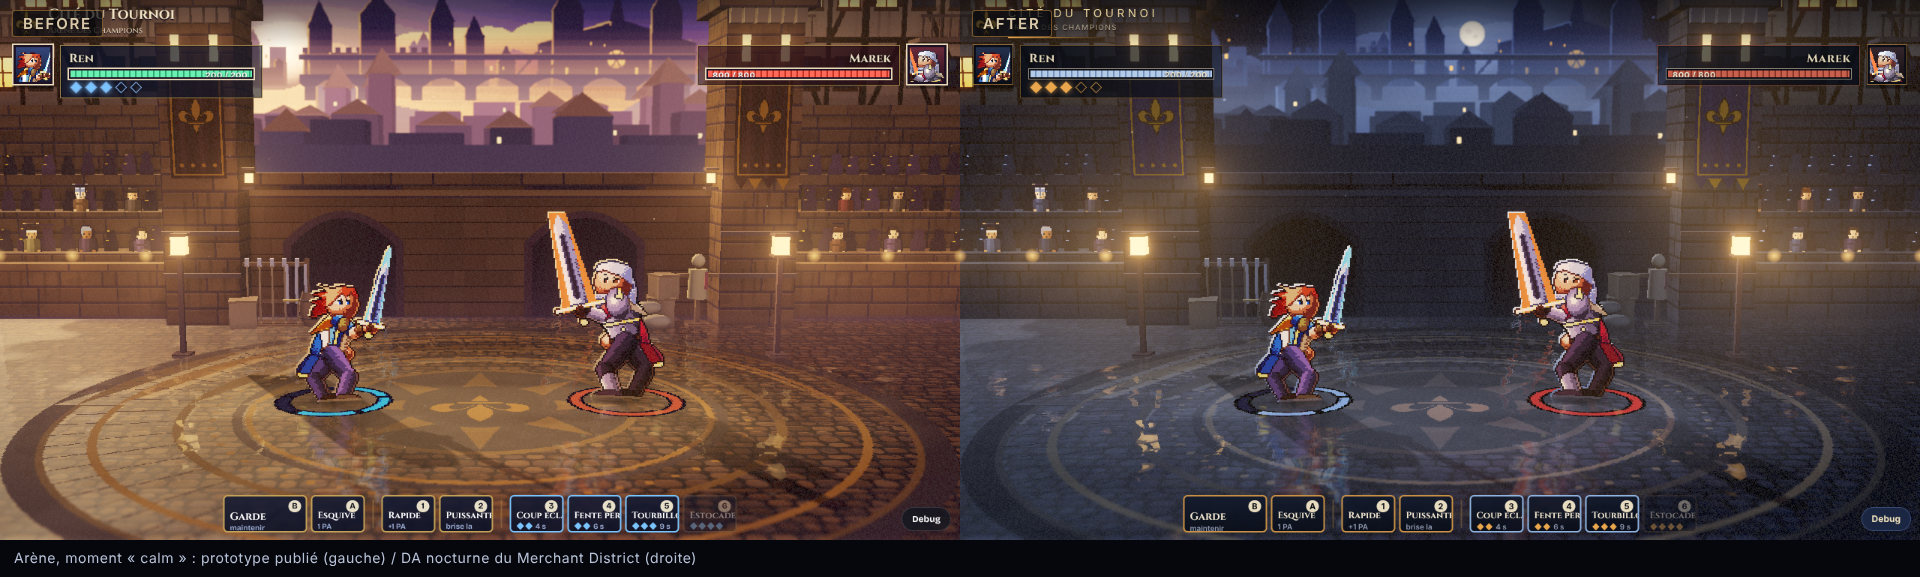
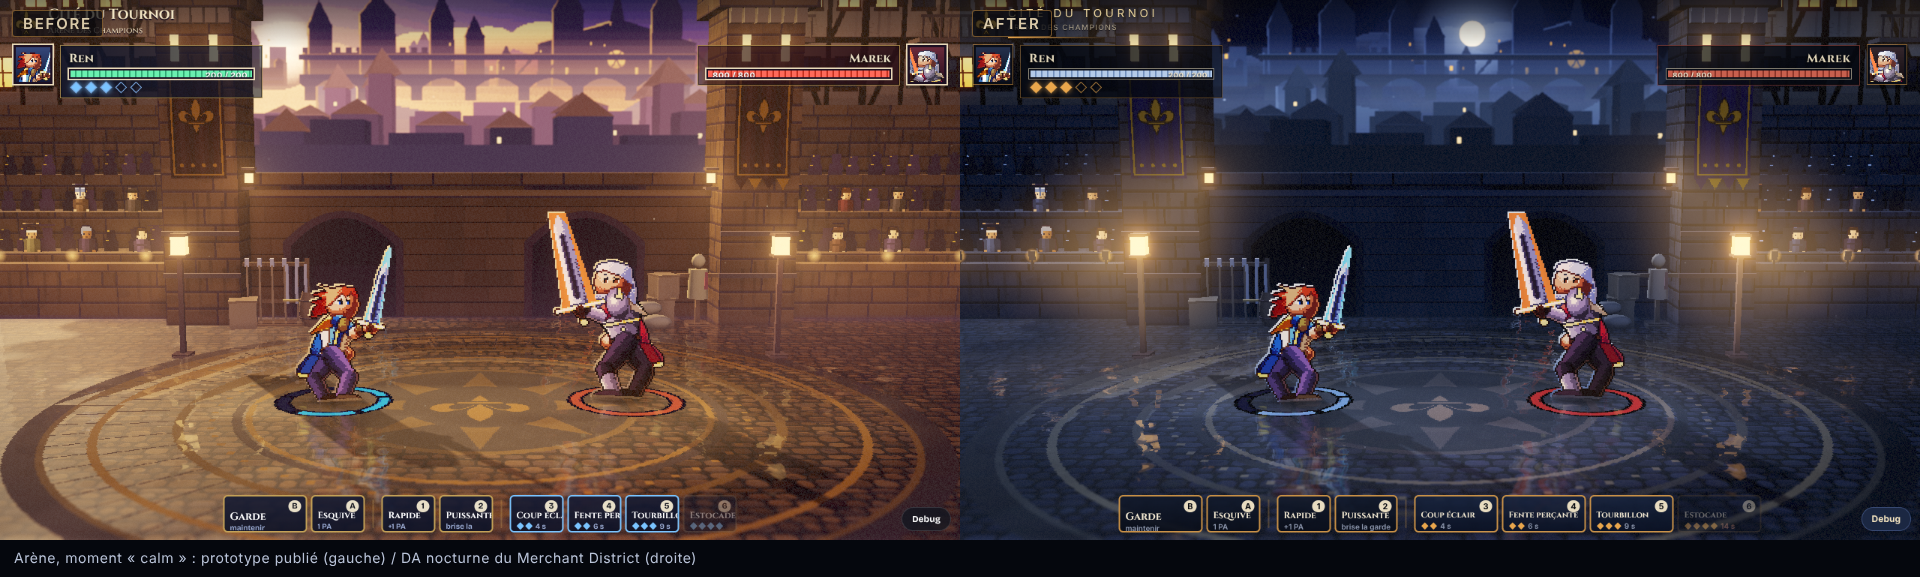
Pass A2: blind critiques of the arena's night look; warmth bounded to its sources, HDR moon, crimson telegraph, publish tool
Two fresh blind critiques (original vs A1: 7 / 10 vs 3; A1 vs this revision: 7 vs 5). The lanterns' in-scatter had a 1/d^2 tail that,
summed over 14 lights, veiled the whole frame in amber: bounded to each source (the unlit stone is now cool blue, as the district's).
Telegraph crimson-rose with ivory chevrons, 2.29:1. A night conversion of the painted / full-3D comparison modes was tried and withdrawn.
A third blind critique of the last revision is pending before the merge.

Claude-Session: https://claude.ai/code/session_01EALDkqJdpRg4dShjiuiMN8

diff --git a/arena/arena.html b/arena/arena.html
@@ -3,7 +3,7 @@
 <title>Arène des Champions</title>
 <link rel="stylesheet" href="https://fonts.googleapis.com/css2?family=Press+Start+2P&family=Cinzel:wght@500;700&display=swap">
 <style>
-:root{--bg:#05070d;--panel:rgba(8,12,22,.86);--ink:#e8dcc0;--muted:#8e98ae;--line:rgba(233,166,76,.24);--gold:#e9a64c;--red:#c65a4a;--blue:#8fb4e0;--green:#cfdcf0;box-sizing:border-box;padding-top:env(safe-area-inset-top,0px);padding-bottom:env(safe-area-inset-bottom,0px)}
+:root{color-scheme:dark;--bg:#05070d;--panel:rgba(8,12,22,.86);--ink:#e8dcc0;--muted:#8e98ae;--line:rgba(233,166,76,.24);--gold:#e9a64c;--red:#c65a4a;--blue:#8fb4e0;--green:#cfdcf0;box-sizing:border-box;padding-top:env(safe-area-inset-top,0px);padding-bottom:env(safe-area-inset-bottom,0px)}
 *,*::before,*::after{box-sizing:inherit}html,body{height:100%;margin:0;background:var(--bg);color:var(--ink);font:14px/1.4 'Segoe UI',system-ui,sans-serif;overflow:hidden}
 #stage{position:fixed;inset:0;top:env(safe-area-inset-top,0px);bottom:env(safe-area-inset-bottom,0px)}#gl{display:block;width:100%;height:100%}
 #boot{position:absolute;inset:0;display:grid;place-items:center;color:#d9c9a8;font-size:13px;letter-spacing:.14em;text-transform:uppercase;background:#05070d;z-index:5}
@@ -50,10 +50,10 @@ body[data-mode="hd2d"] .hp .bar i{background:repeating-linear-gradient(90deg,#b4
 #title,#alert,#ctx,#tl{display:none}
 body[data-mode="hd2d"] #title{display:flex;position:absolute;left:16px;top:10px;gap:10px;align-items:center;font-family:'Segoe UI',system-ui,sans-serif;color:#f1d9a0;text-shadow:0 1px 0 #05070d,0 0 12px rgba(0,0,0,.7)}
 #title svg{width:38px;height:38px}#title b{display:block;font-size:23px;line-height:1.05}#title span{font-size:14px;opacity:.88}
-body[data-mode="hd2d"] .port{top:84px}body[data-mode="hd2d"] .hp{top:82px;width:min(32vw,330px);padding:8px 12px 9px;background:linear-gradient(90deg,rgba(8,12,22,.88),rgba(8,12,22,.55));border:1px solid rgba(233,166,76,.38);box-shadow:inset 0 0 0 1px rgba(0,0,0,.4)}
-body[data-mode="hd2d"] .hp.r{background:linear-gradient(270deg,rgba(8,12,22,.88),rgba(8,12,22,.55));border-color:rgba(208,113,78,.5);text-align:right}
+body[data-mode="hd2d"] .port{top:84px}body[data-mode="hd2d"] .hp{top:82px;width:min(32vw,330px);padding:8px 12px 9px;background:linear-gradient(90deg,rgba(5,8,16,.92),rgba(5,8,16,.62));border:1px solid rgba(233,166,76,.38);box-shadow:inset 0 0 0 1px rgba(0,0,0,.4)}
+body[data-mode="hd2d"] .hp.r{background:linear-gradient(270deg,rgba(5,8,16,.92),rgba(5,8,16,.62));border-color:rgba(198,90,74,.5);text-align:right}
 body[data-mode="hd2d"] .hp .nm{font-family:'Cinzel',serif;font-size:16px;text-transform:none;letter-spacing:.04em;color:#efe3c4}body[data-mode="hd2d"] .hp b{display:none}
-body[data-mode="hd2d"] .hp .bar.hpb{position:relative;height:15px;margin-top:5px}body[data-mode="hd2d"] .hp .bar em{position:absolute;right:6px;top:-1px;font:700 11px/15px 'Segoe UI',system-ui,sans-serif;font-style:normal;color:#f3e9d2;text-shadow:0 1px 2px #000}body[data-mode="hd2d"] .hp.r .bar em{right:auto;left:6px}
+body[data-mode="hd2d"] .hp .bar.hpb{position:relative;height:15px;margin-top:5px}body[data-mode="hd2d"] .hp .bar em{position:absolute;right:6px;top:0;font:700 10px/13px 'Segoe UI',system-ui,sans-serif;font-style:normal;color:#f3e9d2;text-shadow:0 1px 2px #000}body[data-mode="hd2d"] .hp.r .bar em{right:auto;left:6px}
 body[data-mode="hd2d"] .hp.r .bar.hpb i{background:repeating-linear-gradient(90deg,#c8604e 0 6px,#8a3428 6px 8px)}
 .hp .bar.gg,.hp .pips,.hp .nx{display:none}body[data-mode="hd2d"] .hp .bar.gg{display:block;height:8px;margin-top:5px}body[data-mode="hd2d"] .hp .bar.gg i{background:repeating-linear-gradient(90deg,#7ac4ff 0 4px,#3a82e0 4px 6px)}body[data-mode="hd2d"] .hp.r .bar.gg i{background:repeating-linear-gradient(90deg,#ffc06a 0 4px,#d9822a 4px 6px)}
 body[data-mode="hd2d"] .hp .pips{display:flex;gap:9px;margin-top:6px;padding-left:4px}body[data-mode="hd2d"] .hp.r .pips{justify-content:flex-end;padding-right:4px}.pips u{width:11px;height:11px;transform:rotate(45deg);border:1.5px solid rgba(233,166,76,.65);background:transparent;display:block}.pips u.on{background:#e9a64c;box-shadow:0 0 8px rgba(233,166,76,.85)}.hp.r .pips u{border-color:#e0a070}.hp.r .pips u.on{background:#ffb060;box-shadow:0 0 8px #ffb060}
@@ -77,7 +77,7 @@ body[data-mode="hd2d"] #tl{display:block;position:absolute;left:50%;bottom:6px;w
 .ab{position:relative;width:98px;height:62px;padding:7px 8px 6px;text-align:left;font:inherit;color:#e8dcc0;background:linear-gradient(#121a2ce6,#090d18e6);border:2px solid rgba(233,166,76,.28);border-radius:6px;cursor:pointer;overflow:hidden;opacity:.5;transition:opacity .1s,border-color .1s;touch-action:manipulation;-webkit-tap-highlight-color:transparent;user-select:none}
 .ab kbd{position:absolute;top:5px;right:6px;min-width:17px;padding:0 4px;font:700 11px/16px 'Segoe UI',system-ui,sans-serif;text-align:center;color:#05070d;background:#e8dcc0;border-radius:9px}
 .ab b{display:block;font:600 13px/1.1 'Cinzel',Georgia,serif;margin-top:15px;white-space:nowrap;color:#f3e9d2}.ab em{display:block;font:600 10.5px/1.2 'Segoe UI',system-ui,sans-serif;font-style:normal;color:#8e98ae;margin-top:3px}
-.ab.on{opacity:1;border-color:rgba(233,166,76,.85)}.ab.tech.on{border-color:#8fb4e0}.ab.noap{opacity:.4}.ab.noap em{color:#d08a6a}.ab.guard{margin-left:10px}
+.ab.on{opacity:1;border-color:rgba(233,166,76,.85)}.ab.tech.on{border-color:rgba(233,166,76,.85);background:linear-gradient(#18243ee6,#0b1224e6)}.ab.noap{opacity:.4}.ab.noap em{color:#d08a6a}.ab.guard{margin-left:10px}
 .ab .cd{position:absolute;left:0;right:0;bottom:0;height:0;background:rgba(5,8,18,.78)}.ab s{position:absolute;inset:0;display:none;place-items:center;font:700 20px 'Segoe UI',system-ui,sans-serif;text-decoration:none;color:#fff;text-shadow:0 1px 3px #000}.ab.cool s{display:grid}
 .ab.open{opacity:1;border-color:#f3e3bf;box-shadow:0 0 14px rgba(243,227,191,.6);animation:abp .45s infinite alternate}@keyframes abp{to{transform:translateY(-4px)}}
 .ab.warn{border-color:#d0714e;box-shadow:0 0 12px rgba(208,113,78,.6)}.ab.active{opacity:1;border-color:#a9c4e8;background:linear-gradient(#1c2c4a,#0b1424);box-shadow:0 0 14px rgba(143,180,224,.5)}
@@ -93,7 +93,7 @@ body[data-mode="hd2d"] #tl{display:block;position:absolute;left:50%;bottom:6px;w
 body[data-mode="hd2d"] .hp{top:60px;width:min(24vw,270px);padding:6px 11px 8px}body[data-mode="hd2d"] .hp.l{left:80px}body[data-mode="hd2d"] .hp.r{right:80px}
 body[data-mode="hd2d"] .port{top:60px;width:52px;height:52px}body[data-mode="hd2d"] .port.l{left:18px}body[data-mode="hd2d"] .port.r{right:18px}
 body[data-mode="hd2d"] .hp .bar.hpb{height:13px;margin-top:3px}
-#abar{gap:5px;bottom:10px}.ab{width:72px;height:50px;padding:6px 7px 5px}.ab b{font-size:12px;margin-top:13px}.ab em{font-size:10px;margin-top:2px}.ab.guard{width:112px;margin-left:0}.ab.guard b{font-size:14px}
+#abar{gap:5px;bottom:10px}.ab{width:72px;height:50px;padding:6px 7px 5px}.ab b{font-size:12px;margin-top:13px}.ab em{font-size:10px;margin-top:2px}.ab.guard{width:112px;margin-left:0}@media (min-width:1000px){.ab.tech{width:112px}.ab.tech b{font-size:11px}.ab[data-act="heavy"]{width:84px}}.ab.guard b{font-size:14px}
 .sep{width:2px;align-self:stretch;margin:6px 5px;background:rgba(233,166,76,.25);border-radius:1px}.ab .dm{color:#e9a64c;letter-spacing:1px}
 @media (prefers-reduced-motion:reduce){.ab.open,.ab.hit,.ab.deny{animation:none}}
 /* pass 12 (Cité du Tournoi repo, journal Passe A1): the Merchant District night art direction; title as the game's loading screen */
@@ -101,10 +101,11 @@ body[data-mode="hd2d"] .hp .bar.hpb{height:13px;margin-top:3px}
 @media (max-width:860px){.ab{width:52px;height:46px}.ab.guard{width:70px}.ab em{display:none}.ab b{font-size:10px;margin-top:15px}.sep{margin:6px 2px}#abar{gap:3px}}
 
 @media (max-width:700px){.hp{width:40vw}#keys button{padding:10px}}
+#rotate{display:none;position:absolute;inset:0;z-index:80;place-items:center;padding:24px;text-align:center;background:#05070d;color:#d9c9a8}#rotate b{display:block;font-weight:400;font-size:15px;letter-spacing:.3em;text-transform:uppercase;color:#f1d9a0}#rotate span{display:block;margin-top:14px;font-size:12px;letter-spacing:.14em;text-transform:uppercase;opacity:.75}#rotate div::after{content:'';display:block;width:132px;height:2px;margin:16px auto 0;background:#e9a64c}@media (orientation:portrait) and (max-width:700px){#rotate{display:grid}}
 @media (prefers-reduced-motion:reduce){#dmg .dmg{animation-duration:.01s}}
 </style></head>
 <body data-mode="hd2d">
-<div id="stage"><canvas id="gl"></canvas><div id="boot">Loading Three.js…</div>
+<div id="stage"><canvas id="gl"></canvas><div id="boot">Chargement…</div><div id="rotate" role="alert"><div><b>Cité du Tournoi</b><span>Tournez l'appareil : l'arène se joue en paysage</span></div></div>
 <div id="overlay">
  <div id="hud"><div id="title"><svg viewBox="0 0 40 40" aria-hidden="true"><path fill="#e8b84a" stroke="#4a3008" stroke-width="1.4" stroke-linejoin="round" d="M20 2c4 5 5 10 0 18-5-8-4-13 0-18zM19 22c-6-9-14-6-14 1 0 4 4 6 8 5-3-2-3-5-1-6 3-1 5 1 7 3zM21 22c6-9 14-6 14 1 0 4-4 6-8 5 3-2 3-5 1-6-3-1-5 1-7 3zM11 25h18v3H11zM20 29c2 3 3 5 5 9-3-1-4-2-5-4-1 2-2 3-5 4 2-4 3-6 5-9z"/></svg><div><b>Cité du Tournoi</b><span>Arène des Champions</span></div></div><div class="hp l" id="hpRen"><span class="nm">Ren</span><div class="bar hpb"><i style="width:100%"></i><em>200 / 200</em></div><div class="pips" aria-label="Points d'action"><u></u><u></u><u></u><u></u><u></u></div></div><div class="hp r" id="hpMarek"><span class="nm">Marek</span><div class="bar hpb"><i style="width:100%"></i><em>800 / 800</em></div></div>
  <canvas class="port l" id="portRen" width="64" height="64"></canvas><canvas class="port r" id="portMarek" width="64" height="64"></canvas>
@@ -825,10 +826,10 @@ window.__CACHE_VER='2c556ca157';
       var P = this.tele, g = P.g, w = 512, h = 276; g.clearRect(0, 0, w, h);
       var cp = inc.castProgress, open = inc.windowOpen, flash = .5 + .5 * Math.sin(t * (open ? 22 : 7));
       var x0 = 20, x1 = w - 20, y0 = 30, y1 = h - 30;
-      g.fillStyle = 'rgba(120,44,34,.94)'; g.fillRect(x0, y0, x1 - x0, y1 - y0);
-      var fillW = (x1 - x0) * cp; g.fillStyle = open ? 'rgba(222,104,72,' + (.94 + .05 * flash) + ')' : 'rgba(176,70,50,.96)'; g.fillRect(x1 - fillW, y0, fillW, y1 - y0);
-      g.save(); g.beginPath(); g.rect(x0, y0, x1 - x0, y1 - y0); g.clip(); g.fillStyle = 'rgba(250,240,220,.5)';
-      for (var cx = x1 + 60 - ((t * 170) % 110); cx > x0 - 110; cx -= 110) { g.beginPath(); g.moveTo(cx, h / 2); g.lineTo(cx + 44, y0 + 10); g.lineTo(cx + 44 - 24, y0 + 10); g.lineTo(cx - 24, h / 2); g.lineTo(cx + 44 - 24, y1 - 10); g.lineTo(cx + 44, y1 - 10); g.closePath(); g.fill(); }
+      g.fillStyle = 'rgba(150,40,56,.94)'; g.fillRect(x0, y0, x1 - x0, y1 - y0);
+      var fillW = (x1 - x0) * cp; g.fillStyle = open ? 'rgba(206,60,78,' + (.94 + .05 * flash) + ')' : 'rgba(176,48,64,.96)'; g.fillRect(x1 - fillW, y0, fillW, y1 - y0);
+      g.save(); g.beginPath(); g.rect(x0, y0, x1 - x0, y1 - y0); g.clip(); g.fillStyle = 'rgba(241,217,160,.88)';
+      for (var cx = x1 + 60 - ((t * 170) % 110); cx > x0 - 110; cx -= 110) { g.beginPath(); g.moveTo(cx, h / 2); g.lineTo(cx + 44, y0 + 10); g.lineTo(cx + 44 - 38, y0 + 10); g.lineTo(cx - 38, h / 2); g.lineTo(cx + 44 - 38, y1 - 10); g.lineTo(cx + 44, y1 - 10); g.closePath(); g.fill(); }
       g.restore();
       g.lineJoin = 'miter'; g.strokeStyle = '#0a0d16'; g.lineWidth = 16; g.strokeRect(x0, y0, x1 - x0, y1 - y0);
       g.strokeStyle = open ? 'rgba(243,233,210,' + (.7 + .3 * flash) + ')' : '#d0503e'; g.lineWidth = 9; g.strokeRect(x0, y0, x1 - x0, y1 - y0);
@@ -968,8 +969,8 @@ window.__CACHE_VER='2c556ca157';
     '  float ms = mist * exp(-max(P.y, 0.0) * 1.1) * (0.55 + 0.45 * vn(P.xz * 0.16 + vec2(time * 0.012, time * 0.008))) * clearM * farW;',
     '  col = mix(col, fogCol, clamp(fog + ms * 0.55, 0.0, 0.85));',
     '  vec3 il = vec3(0.0), sc = vec3(0.0);',
-    '  for (int i = 0; i < 16; i++) { if (float(i) >= nLights) break; vec3 L = uLP[i]; float R = uLR[i]; float dl = length(L - P); il += uLC[i] / (1.0 + 9.0 * (dl / R) * (dl / R)); vec3 w = L - uCamPos; float tt = clamp(dot(w, V), 0.0, dist); float dd = length(L - (uCamPos + V * tt)); sc += uLC[i] * (R * R * 0.12) / (dd * dd + R * R * 0.12) * 0.06; }',
-    '  col = col * (1.0 + il * lamp * 0.9) + il * lamp * 0.012 + sc * scat;',
+    '  for (int i = 0; i < 16; i++) { if (float(i) >= nLights) break; vec3 L = uLP[i]; float R = uLR[i]; float dl = length(L - P); il += uLC[i] / (1.0 + 9.0 * (dl / R) * (dl / R)) * (1.0 - smoothstep(min(R * 1.1, 3.0), min(R * 2.4, 6.0), dl)); vec3 w = L - uCamPos; float tt = clamp(dot(w, V), 0.0, dist); float dd = length(L - (uCamPos + V * tt)); sc += uLC[i] * (R * R * 0.12) / (dd * dd + R * R * 0.12) * 0.06 * (1.0 - smoothstep(min(R * 0.45, 1.2), min(R * 1.05, 2.6), dd)); }',
+    '  col = col * (1.0 + il * lamp * 0.9) + il * lamp * 0.035 + sc * scat;',
     '  gl_FragColor = vec4(col, 1.0);',
     '}'].join('\n');
 
@@ -1021,7 +1022,7 @@ window.__CACHE_VER='2c556ca157';
     U.tScene.value = src.texture; U.tDepth.value = this.rtS.depthTexture; U.tB1.value = this.bl[0][0].texture; U.tB2.value = this.bl[1][0].texture; U.tB3.value = this.bl[2][0].texture;
     U.near.value = camera.near; U.far.value = camera.far; U.time.value = p.time || 0; U.focus.value = p.focus; U.range.value = p.range || 5; U.rangeNear.value = p.rangeNear || 3.4; U.rangeFar.value = p.rangeFar || 30; U.farScale.value = p.farScale == null ? .5 : p.farScale; U.plateauN.value = p.plateauN || 0; U.plateauF.value = p.plateauF || 0; if (p.sunUV) U.sunUV.value.set(p.sunUV[0], p.sunUV[1]); U.maxBlur.value = (p.maxBlur || 7) * Math.max(.5, this.h / 1080 * (p.dpr || 1) * 1.0 + .0);
     U.dofOn.value = o.dof ? 1 : 0; U.bloom.value = o.bloom ? (p.bloom == null ? .55 : p.bloom) : 0; U.rays.value = o.rays ? (p.rays == null ? .5 : p.rays) : 0; U.tilt.value = o.dof ? (p.tilt == null ? .55 : p.tilt) : 0;
-    U.pulse.value = p.pulse || 0; U.sat.value = o.grade ? (p.sat || 1.2) : 1.0; U.vig.value = o.grade ? .68 : 0; U.grain.value = o.grade ? .02 : 0; U.exposure.value = o.grade ? (p.exposure || .86) : 1.0;
+    U.pulse.value = p.pulse || 0; U.sat.value = o.grade ? (p.sat || 1.2) : 1.0; U.vig.value = o.grade ? .68 : 0; U.grain.value = o.grade ? .008 : 0; U.exposure.value = o.grade ? (p.exposure || .86) : 1.0;
     this.pass(this.mComp, this.rtO);
     this.mFxaa.uniforms.amount.value = o.fxaa === false ? 0 : 1; this.mFxaa.uniforms.tex.value = this.rtO.texture; this.pass(this.mFxaa, null);
     r.autoClear = prevAuto;
@@ -1337,7 +1338,7 @@ window.__CACHE_VER='2c556ca157';
   }
   function skyNight(THREE, moonU, moonV) {
     return T(THREE, 1024, 160, 28, function (g, w, h) {
-      var gr = g.createLinearGradient(0, 0, 0, h); gr.addColorStop(0, '#080c1a'); gr.addColorStop(.35, '#111a30'); gr.addColorStop(.72, '#212c46'); gr.addColorStop(1, '#344258'); g.fillStyle = gr; g.fillRect(0, 0, w, h);
+      var gr = g.createLinearGradient(0, 0, 0, h); gr.addColorStop(0, '#060918'); gr.addColorStop(.35, '#0c1330'); gr.addColorStop(.72, '#1a2446'); gr.addColorStop(1, '#2e3a5c'); g.fillStyle = gr; g.fillRect(0, 0, w, h);
       var sg = g.createRadialGradient(w * moonU, h * moonV, 4, w * moonU, h * moonV, h * .9); sg.addColorStop(0, 'rgba(150,172,220,.42)'); sg.addColorStop(.45, 'rgba(110,132,186,.14)'); sg.addColorStop(1, 'rgba(110,132,186,0)'); g.fillStyle = sg; g.fillRect(0, 0, w, h);
       var cg = g.createLinearGradient(0, h * .78, 0, h); cg.addColorStop(0, 'rgba(84,70,62,0)'); cg.addColorStop(1, 'rgba(84,70,62,.3)'); g.fillStyle = cg; g.fillRect(0, h * .78, w, h * .22);
     }, { ss: 1, after: function (g, w, h) {
@@ -1462,7 +1463,7 @@ window.__CACHE_VER='2c556ca157';
     opts = opts || {}; var g = new THREE.Group(), anim = { banners: [], flames: [], clouds: [] }, rnd = X2.rnd(17);
     var S = function (map, o) { return new THREE.MeshStandardMaterial(Object.assign({ map: map, roughness: 1, metalness: 0 }, o || {})); };
     var flat = function (c, o) { return new THREE.MeshStandardMaterial(Object.assign({ color: c, roughness: 1, metalness: 0 }, o || {})); };
-    var cob = X3.cobbleW(THREE), rings = X3.rings(THREE), wallC = X3.wallCalm(THREE), wallA = X3.wallArch(THREE), fl = X2.flames(THREE), banner = X2.banner(THREE, '#22327a', '#e0b03a');
+    var cob = X3.cobbleW(THREE), rings = X3.rings(THREE), wallC = X3.wallCalm(THREE), wallA = X3.wallArch(THREE), fl = X2.flames(THREE), banner = X2.banner(THREE, '#0e1874', '#e0b03a');
     var batches = {}, cbatch = [];
     function box(w, h, d, x, y, z, map, o) { o = o || {}; var geo = new THREE.BoxGeometry(w, h, d); uvScale(geo, w, h, d, o.tw || 3.2, o.th || 1.6, o.tt || 1.6); geo.translate(x, y, z); (batches[map.uuid] = batches[map.uuid] || { map: map, geos: [] }).geos.push(geo); }
     function flatBox(w, h, d, x, y, z, col) { var geo = new THREE.BoxGeometry(w, h, d), c = new THREE.Color(col), n = geo.attributes.position.count, ca = new Float32Array(n * 3); for (var q = 0; q < n; q++) { ca[q * 3] = c.r; ca[q * 3 + 1] = c.g; ca[q * 3 + 2] = c.b; } geo.setAttribute('color', new THREE.BufferAttribute(ca, 3)); geo.deleteAttribute('uv'); geo.translate(x, y, z); cbatch.push(geo); }
@@ -1472,7 +1473,7 @@ window.__CACHE_VER='2c556ca157';
 
     // ---- floor: cool cobbles (slightly glossy: moon and lanterns glint on wet stone), ring pattern + muted medallion, a faint moonlit pool under the fighters, darker rim
     var fg = new THREE.PlaneGeometry(90, 52); fg.rotateX(-Math.PI / 2); var fu = fg.attributes.uv; for (var i = 0; i < fu.count; i++) fu.setXY(i, fu.getX(i) * 90 / 6.4, fu.getY(i) * 52 / 6.4);
-    var floor = new THREE.Mesh(fg, S(cob, { color: 0x9ca2b0, roughness: .72, metalness: 0 })); floor.position.set(0, 0, -9); floor.receiveShadow = true; g.add(floor);
+    var floor = new THREE.Mesh(fg, S(cob, { color: 0x9ca2b0, roughness: .85, metalness: 0 })); floor.position.set(0, 0, -9); floor.receiveShadow = true; g.add(floor);
     var rg = new THREE.Mesh(new THREE.CircleGeometry(7, 72), S(rings, { alphaTest: .5, roughness: .8, metalness: .04, polygonOffset: true, polygonOffsetFactor: -2, polygonOffsetUnits: -2 })); rg.rotation.x = -Math.PI / 2; rg.rotation.z = Math.PI; rg.position.set(0, .012, .2); rg.receiveShadow = true; g.add(rg);
     pool(40, 26, 0, -2, 'rgba(4,6,12,0)', 'rgba(4,6,12,.62)', false); pool(15, 9, 0, .2, 'rgba(150,170,214,.12)', 'rgba(150,170,214,0)', true);
 
@@ -1498,6 +1499,7 @@ window.__CACHE_VER='2c556ca157';
     g.add(wm);
     // sparse lantern points (emissive sprites, not lights)
     var lp = [], lg = VFX.glowTex(THREE); [8.2, 10.0, 11.8, 13.6, 15.0].forEach(function (x) { lp.push([x, 1.6, -7.85], [-x, 1.6, -7.85]); });
+    lp.forEach(function (q) { flatBox(.05, .3, .05, q[0], 1.36, q[2] - .02, '#16161c'); flatBox(.15, .22, .15, q[0], 1.6, q[2] - .04, '#1e1c22'); });
     var lm = new THREE.InstancedMesh(new THREE.PlaneGeometry(.38, .38), new THREE.MeshBasicMaterial({ map: lg, color: 0xff9a40, transparent: true, blending: THREE.AdditiveBlending, depthWrite: false, opacity: .6 }), lp.length), dm = new THREE.Object3D(); lp.forEach(function (p, k) { dm.position.set(p[0], p[1], p[2]); dm.updateMatrix(); lm.setMatrixAt(k, dm.matrix); }); g.add(lm);
 
     // ---- local lights for the post pass (light pools on surfaces, in-scatter halos, reflections): tower flames, parapet lanterns, two low lamp posts at the ring's edge. No real point lights.
@@ -1505,8 +1507,8 @@ window.__CACHE_VER='2c556ca157';
     function addLight(x, y, z, c, k, r) { lightList.push({ p: new THREE.Vector3(x, y, z), c: c, k: k, k0: k, r: r, ph: lightList.length * 1.7 }); }
     towers.forEach(function (t) { addLight(t.x, t.y - .4, t.z + .7, [1, .62, .28], .9, 3.6); });
     [8.2, 10.0, 11.8].forEach(function (x) { addLight(x, 1.7, -7.6, [1, .6, .26], .8, 1.9); addLight(-x, 1.7, -7.6, [1, .6, .26], .8, 1.9); });
-    var lampCore = new THREE.InstancedMesh(new THREE.BoxGeometry(.28, .38, .28), new THREE.MeshBasicMaterial({ color: new THREE.Color(1.7, 1.05, .45) }), 4);
-    [-6.0, 6.0].forEach(function (x, k) { flatBox(.1, 2.1, .1, x, 1.05, -3.6, '#2a1f24'); flatBox(.36, .08, .36, x, .04, -3.6, '#2a1f24'); flatBox(.34, .05, .34, x, 2.05, -3.6, '#2a1f24'); flatBox(.34, .05, .34, x, 2.47, -3.6, '#2a1f24'); dm.position.set(x, 2.26, -3.6); dm.updateMatrix(); lampCore.setMatrixAt(k, dm.matrix); addLight(x, 2.25, -3.3, [1, .62, .28], 1.35, 4.2); });
+    var lampCore = new THREE.InstancedMesh(new THREE.BoxGeometry(.28, .38, .28), new THREE.MeshBasicMaterial({ color: new THREE.Color(1.55, .86, .34) }), 4);
+    [-6.0, 6.0].forEach(function (x, k) { flatBox(.1, 2.1, .1, x, 1.05, -3.6, '#2a1f24'); flatBox(.36, .08, .36, x, .04, -3.6, '#2a1f24'); flatBox(.34, .05, .34, x, 2.05, -3.6, '#2a1f24'); flatBox(.34, .05, .34, x, 2.47, -3.6, '#2a1f24'); dm.position.set(x, 2.26, -3.6); dm.updateMatrix(); lampCore.setMatrixAt(k, dm.matrix); addLight(x, 2.25, -3.3, [1, .62, .28], 2.0, 4.2); });
     g.add(lampCore);
     // ---- framing architecture behind the tribunes: timber-framed facades with lit windows, balconies, signs and roofs (the Merchant District's language, kept at the edges so the centre stays calm)
     function addC(geo, x, y, z, col, ry) { if (ry) geo.rotateY(ry); geo.translate(x, y, z); var c = new THREE.Color(col), n = geo.attributes.position.count, ca = new Float32Array(n * 3); for (var q = 0; q < n; q++) { ca[q * 3] = c.r; ca[q * 3 + 1] = c.g; ca[q * 3 + 2] = c.b; } geo.setAttribute('color', new THREE.BufferAttribute(ca, 3)); if (geo.attributes.uv) geo.deleteAttribute('uv'); cbatch.push(geo); }
@@ -1568,8 +1570,8 @@ window.__CACHE_VER='2c556ca157';
     var sunWorld = new THREE.Vector3(6, 26.5, -172), sky = new THREE.Mesh(new THREE.PlaneGeometry(440, 42), new THREE.MeshBasicMaterial({ map: X3.skyNight(THREE, (sunWorld.x + 220) / 440, 1 - (sunWorld.y - (17 - 21)) / 42), fog: false })); sky.position.set(0, 17, -180); g.add(sky);
     [[-60, 20, 1], [10, 24, 2], [75, 19, 3]].forEach(function (c, k) { var cl = new THREE.Mesh(new THREE.PlaneGeometry(70, 16), new THREE.MeshBasicMaterial({ map: X3.cloudsW(THREE, 50 + k), transparent: true, alphaTest: .5, fog: false })); cl.position.set(c[0], c[1], -170 + k); g.add(cl); anim.clouds.push(cl); });
     // the moon (sunWorld keeps its name: the god-ray pass aims at it): a cool halo, then the disc, as the district's moon
-    var sg = new THREE.Sprite(new THREE.SpriteMaterial({ map: lg, color: 0x7f94c8, transparent: true, opacity: .2, blending: THREE.AdditiveBlending, depthWrite: false, fog: false })); sg.scale.set(70, 56, 1); sg.position.copy(sunWorld).add(new THREE.Vector3(0, 0, 6)); g.add(sg);
-    var sd = new THREE.Sprite(new THREE.SpriteMaterial({ map: X3.moonTex(THREE), color: 0xffffff, transparent: true, depthWrite: false, fog: false })); sd.scale.set(5.2, 5.2, 1); sd.position.copy(sunWorld).add(new THREE.Vector3(0, 0, 8)); g.add(sd);
+    var sg = new THREE.Sprite(new THREE.SpriteMaterial({ map: lg, color: 0x7f94c8, transparent: true, opacity: .42, blending: THREE.AdditiveBlending, depthWrite: false, fog: false })); sg.scale.set(22, 22, 1); sg.position.copy(sunWorld).add(new THREE.Vector3(0, 0, 6)); g.add(sg);
+    var sd = new THREE.Sprite(new THREE.SpriteMaterial({ map: X3.moonTex(THREE), color: new THREE.Color(1.8, 1.78, 1.72), transparent: true, depthWrite: false, fog: false })); sd.scale.set(5.2, 5.2, 1); sd.position.copy(sunWorld).add(new THREE.Vector3(0, 0, 8)); g.add(sd);
 
     // ---- foreground framing: two dark simple masses, smooth because the DOF blurs real geometry
     function silTex(kind) { var c = document.createElement('canvas'); c.width = c.height = 128; var q = c.getContext('2d'); q.filter = 'blur(3px)'; q.fillStyle = '#06080e'; q.beginPath(); q.ellipse(64, 104, 46, 40, 0, Math.PI, 0); q.fill(); q.fillRect(18, 104, 92, 30); q.beginPath(); q.arc(64, 62, 21, 0, 7); q.fill(); if (kind === 1) { q.beginPath(); q.ellipse(64, 46, 36, 9, 0, 0, 7); q.fill(); q.beginPath(); q.moveTo(46, 44); q.lineTo(64, 14); q.lineTo(82, 44); q.fill(); } else if (kind === 2) { q.fillRect(40, 30, 48, 14); q.beginPath(); q.arc(64, 40, 24, Math.PI, 0); q.fill(); } else { q.beginPath(); q.arc(64, 50, 25, Math.PI, 0); q.fill(); } q.filter = 'none'; var tx = new THREE.CanvasTexture(c); tx.encoding = THREE.sRGBEncoding; return tx; }
@@ -1578,7 +1580,7 @@ window.__CACHE_VER='2c556ca157';
 
     // ---- lights: ONE key (the moon, behind-left), a dim slate bounce from camera side, an indigo hemisphere. No point lights: the warm light is the lanterns' (post pass).
     var sun = new THREE.DirectionalLight(0xa4b8e8, 1.8); sun.position.set(-8, 8.5, -14); sun.target.position.set(0, 0, 0); sun.castShadow = true; sun.shadow.mapSize.set(2048, 2048); var sc = sun.shadow.camera; sc.left = -20; sc.right = 20; sc.top = 16; sc.bottom = -16; sc.near = 1; sc.far = 70; sun.shadow.bias = -.0004; sun.shadow.normalBias = .03; sun.shadow.radius = 2; g.add(sun); g.add(sun.target);
-    var fill = new THREE.DirectionalLight(0x40507a, .2); fill.position.set(2, 4, 16); g.add(fill); var hemi = new THREE.HemisphereLight(0x4a5c8a, 0x16181f, .46); g.add(hemi);
+    var fill = new THREE.DirectionalLight(0x40507a, .2); fill.position.set(2, 4, 16); g.add(fill); var hemi = new THREE.HemisphereLight(0x3c5296, 0x0e1220, .46); g.add(hemi);
 
     // ---- merge batched geometry into a handful of meshes
     function mergeGeos(list) { var P = [], N = [], U = [], C = [], I = [], off = 0, hasUV = !!list[0].attributes.uv, hasC = !!list[0].attributes.color; list.forEach(function (gg) { var p = gg.attributes.position, n = gg.attributes.normal, u = gg.attributes.uv, c = gg.attributes.color; for (var i = 0; i < p.count; i++) { P.push(p.getX(i), p.getY(i), p.getZ(i)); N.push(n.getX(i), n.getY(i), n.getZ(i)); if (hasUV) U.push(u.getX(i), u.getY(i)); if (hasC) C.push(c.getX(i), c.getY(i), c.getZ(i)); } var ix = gg.index; for (var j = 0; j < ix.count; j++) I.push(ix.getX(j) + off); off += p.count; }); var out = new THREE.BufferGeometry(); out.setAttribute('position', new THREE.Float32BufferAttribute(P, 3)); out.setAttribute('normal', new THREE.Float32BufferAttribute(N, 3)); if (hasUV) out.setAttribute('uv', new THREE.Float32BufferAttribute(U, 2)); if (hasC) out.setAttribute('color', new THREE.Float32BufferAttribute(C, 3)); out.setIndex(I); return out; }
@@ -2479,7 +2481,7 @@ window.__CACHE_VER='2c556ca157';
   };
   HD2DRenderer.prototype.render = function () {
     if (this.flags.post === false) { this.renderer.setRenderTarget(null); this.renderer.render(this.scene, this.camera); return; }
-    var sv = this.arena.sunWorld.clone().project(this.camera); var AD0_ = window.__ad || {}, dk = AD0_.dusk == null ? .7 : AD0_.dusk, AD = Object.assign({}, AD0_, { lamp: (AD0_.lamp == null ? 1 : AD0_.lamp) * (1 + .6 * dk), scat: (AD0_.scat == null ? 1 : AD0_.scat) * (1 + .5 * dk), wet: (AD0_.wet == null ? 1 : AD0_.wet) * (1 + .25 * dk) }); this.arena.hemi.intensity = .3 * (AD0_.ambient == null ? 1 : AD0_.ambient) * (1 - .4 * dk); this.arena.sun.intensity = .95 * (AD0_.warm == null ? 1 : AD0_.warm) * (1 - .5 * dk); this.post.render(this.scene, this.camera, { pulse: this.screenPulse * (window.__rm ? .35 : 1) * ((window.__assist || 'subtle') === 'off' ? 0 : Math.min(1, (window.__ad && window.__ad.tell != null) ? window.__ad.tell : 1)), ad: AD, lights: this.arena.lightList, time: this.t, focus: this.camera.position.distanceTo(this.target), rangeNear: 3.4, rangeFar: 30, farScale: .32, plateauN: 2.6, plateauF: 7, tilt: 0, maxBlur: 7, dpr: this.renderer.getPixelRatio(), bloom: .16, rays: .12, exposure: .95, sat: 1.0, sunUV: [sv.x * .5 + .5, sv.y * .5 + .5] });
+    var sv = this.arena.sunWorld.clone().project(this.camera); var AD0_ = window.__ad || {}, dk = AD0_.dusk == null ? .7 : AD0_.dusk, AD = Object.assign({}, AD0_, { lamp: (AD0_.lamp == null ? 1 : AD0_.lamp) * (1 + .6 * dk), scat: (AD0_.scat == null ? 1 : AD0_.scat) * (1 + .5 * dk), wet: (AD0_.wet == null ? 1 : AD0_.wet) * (1 + .25 * dk) }); this.arena.hemi.intensity = .5 * (AD0_.ambient == null ? 1 : AD0_.ambient) * (1 - .4 * dk); this.arena.sun.intensity = 1.1 * (AD0_.warm == null ? 1 : AD0_.warm) * (1 - .5 * dk); this.post.render(this.scene, this.camera, { pulse: this.screenPulse * (window.__rm ? .35 : 1) * ((window.__assist || 'subtle') === 'off' ? 0 : Math.min(1, (window.__ad && window.__ad.tell != null) ? window.__ad.tell : 1)), ad: AD, lights: this.arena.lightList, time: this.t, focus: this.camera.position.distanceTo(this.target), rangeNear: 3.4, rangeFar: 30, farScale: .32, plateauN: 2.6, plateauF: 7, tilt: 0, maxBlur: 7, dpr: this.renderer.getPixelRatio(), bloom: .16, rays: .12, exposure: .95, sat: 1.0, sunUV: [sv.x * .5 + .5, sv.y * .5 + .5] });
   };
   HD2DRenderer.prototype.resize = function (w, h) { this.camera.aspect = w / h; this.camera.updateProjectionMatrix(); var v = new this.THREE.Vector2(); this.renderer.getDrawingBufferSize(v); if (this.post) this.post.setSize(v.x, v.y); };
   /* animated pixel portrait: crop of the current sprite frame around the head, plus the live face overlay, integer-scaled */
@@ -2929,7 +2931,7 @@ window.__CACHE_VER='2c556ca157';
 /* App shell: CombatSimulation -> presentation -> (HybridRenderer | Full3DRenderer). Input, DOM HUD, debug panel, presets, stats. */
 (function () {
   var $ = function (s, r) { return (r || document).querySelector(s); }, $$ = function (s, r) { return Array.prototype.slice.call((r || document).querySelectorAll(s)); };
-  if (!window.THREE) { document.getElementById('boot').textContent = 'Three.js failed to load (cdnjs). Check your connection and reload.'; return; }
+  if (!window.THREE) { document.getElementById('boot').textContent = 'Three.js n\'a pas pu être chargé (cdnjs) : vérifiez la connexion, puis rechargez.'; return; }
   var THREE = window.THREE, sim = new CombatLib.CombatSim(), D = sim.D;
   var canvas = $('#gl'), stage = $('#stage');
   var renderer = new THREE.WebGLRenderer({ canvas: canvas, antialias: true, powerPreference: 'high-performance' }); renderer.info.autoReset = false;
@@ -3191,7 +3193,7 @@ window.__CACHE_VER='2c556ca157';
   function boot() {
     size(); var boot = $('#boot'); boot.textContent = 'Peindre la nuit…';
     var tStart = performance.now(), prog = function (lo, hi, label) { return function (p) { boot.textContent = label + ' ' + Math.round((lo + (hi - lo) * p) * 100) + '%'; }; };
-    HybridRenderer.prepare(THREE, prog(0, .5, 'Preparing painted sprites…')).then(function () { return HD2DRenderer.prepare(THREE, prog(.5, 1, 'Preparing pixel sprites…')); }).then(function () {
+    HybridRenderer.prepare(THREE, prog(0, .5, 'Peindre les combattants…')).then(function () { return HD2DRenderer.prepare(THREE, prog(.5, 1, 'Pixels des combattants…')); }).then(function () {
       var prepMs = performance.now() - tStart, t0 = performance.now(); R.hybrid = new HybridRenderer(THREE, renderer, W, H); var tA = performance.now() - t0; t0 = performance.now();
       R.full3d = new Full3DRenderer(THREE, renderer, W, H); var tB = performance.now() - t0; t0 = performance.now(); R.hd2d = new HD2DRenderer(THREE, renderer, W, H); var tC = performance.now() - t0;
       window.__bake.build = { prepareMs: prepMs, hybridMs: tA, full3dMs: tB, hd2dMs: tC, painted: window.__atlasT, pixel: window.__pixAtlasT };

diff --git a/JOURNAL.md b/JOURNAL.md
@@ -735,6 +735,74 @@ Légende : **[OK]** réussi · **[KO]** échec / impasse · **[?]** non résolu 
   contrôle chiffré du prototype l'a vu, pas l'œil sur une capture.
 - Une silhouette lointaine se lit par sa valeur contre le ciel derrière elle : à valeur égale, il ne reste que ses liserés.
 
+## Passe A2 — Arène : critiques à l'aveugle, la chaleur bornée aux sources, télégraphe cramoisi, publication (2026-10-19)
+
+### Pourquoi
+- Suite de la Passe A1 (fusionnée, `74a815a`), même consigne ; « Principes à garder » : toute retouche repasse une critique à l'aveugle par
+  un agent neuf, et une retouche qui ne gagne pas clairement est annulée. Branche `claude/stoic-goodall-8ieke4` (de `main` = `74a815a`).
+
+### Critique n° 1 — [OK] (agent neuf ; original contre A1, étiquettes tirées au sort, clé gardée hors de sa portée ; références A / B du district)
+- A1 l'emporte : conformité globale 7 / 10 contre 3, ciel 6 / 2, pierre 6 / 3, lumière (chaud seulement aux sources) 6 / 2, HUD 8 / 5,
+  signaux 7 / 6 (l'original : « a warm dusk scene », accents verts étrangers à l'interface du jeu).
+- Ses écarts restants, **vérifiés sur les pixels** avant d'agir : mur du fond #262228 et arches #2e241b (neutres / chauds, la référence
+  est bleu froid dans l'ombre), bannières prune #47373c, bord du sol #615f6c (clair), haut du ciel #303950 ; lune sans halo lisible ;
+  libellés de techniques coupés (« COUP ÉCL », « TOURBILLO » : déjà dans l'original).
+
+### Cause de la teinte tiède — [OK] attribuée effet par effet (mêmes captures, un effet coupé à la fois)
+- Sans l'in-scatter des lanternes : mur #101528, arches noires, bannières #0e0f40 ; sans les flaques ou sans le bloom : presque rien ne
+  change. Le terme d'in-scatter de la passe de post-traitement, `R²·0,12 / (d² + R²·0,12)`, a une traîne en 1 / d² : sommé sur les
+  14 lumières, il voile tout le cadre d'ambre.
+- **[KO]** premier essai sans attribution (flaques bornées, ambiance plus froide) : mur #29262f, presque rien. **[KO]** halo borné à
+  0,9-2,6 R : les lampadaires (R 4,2 m) couvraient encore l'arène (#201f2c). **[OK]** halo borné en distance absolue : mur #101528,
+  ciel loin de la lune #0e152b (référence #0f1533), bord du sol #3b3e50.
+- Flaques des lampadaires plus chaudes (terme additif 0,012 → 0,035), halo de la lune resserré (70 × 56 m à 0,2 → 22 × 22 à 0,42 : le
+  grand halo éclaircissait tout le ciel), sol moins brillant, grain 0,02 → 0,012, panneaux du HUD plus sombres, cartes de techniques
+  assez larges dès 1 000 px (112 px, 11 px ; « Puissante » 84 px).
+- Télégraphe : le critique le trouvait « dans la famille de l'ambre » (confondable avec les lanternes). **[KO]** cramoisi #a8283a qu'il
+  proposait : 1,55:1 (le rouge porte peu de luminance). **[OK]** bande cramoisi-rosé plus claire, chevrons ivoire plus épais : 2,19:1
+  (deutéranopie 2,51), puis 2,29:1 avec l'éclairage final.
+
+### Critique n° 2 — [OK] (agent neuf ; A1 contre cette révision, étiquettes tirées au sort)
+- La révision l'emporte : 7 / 10 contre 5, ciel 6,5 / 4,5, pierre 6 / 5, lumière 6,5 / 5,5, HUD 7,5 / 5,5, signaux 8 / 6,5 ; mesures du
+  critique : pixels bleus 50 % (A1 : 15 %), point noir Y ≈ 20 (A1 : 33 ; référence ≈ 20).
+- Ses écarts restants, vérifiés : gradins latéraux beige #604d43 sur toute leur largeur, lune terne #c4beb5, bannières violacées #4e3d58,
+  cœurs des lampadaires presque blancs, lueurs ambrées sans lanterne sur les parapets, chiffres de vie rognés en bas de leur barre.
+- Attribution de nouveau : sans in-scatter, gradins #1c1e2d ; les six lanternes de parapet de chaque côté, espacées de 1,8 m, fondaient
+  leurs halos en un voile continu → halo ≤ 2,6 m et proportionnel au rayon pour les petites lanternes ; gradins #4e403c avec des taches
+  chaudes autour de chaque lanterne. Flaques bornées aussi en distance (≤ 6 m). Lune en valeurs HDR (elle fleurit dans le bloom, comme celle
+  du district) ; bannières #0e1874 ; cœurs des lampadaires plus ambrés ; une petite lanterne (poteau et cage) sous chaque lueur de parapet ;
+  chiffres de vie à l'intérieur de leur barre ; toutes les cartes disponibles bordées d'ambre (techniques teintées dedans) ; grain 0,008.
+- Critique n° 3 (révision 2 contre révision 3) : en cours au moment de ce commit (agent neuf, étiquettes tirées au sort) ; la version 3 n'est fusionnée qu'après son verdict
+
+### Écarté — [KO] les modes de comparaison PAINTED / FULL 3D de nuit
+- Ciel, brume, lumières et tissus passés à la nuit : sans post-traitement, avec des textures de sable claires et un dégradé toon plancher à
+  33 %, le sable éclairé par les braseros reste chaud, même à des intensités très basses (hémisphère 0,16, lune 0,32). Retiré (paires du
+  script inversées) ; **mon choix** : ces deux modes du « bake-off » gardent leur jour, le mode du jeu est HD-2D.
+
+### Aussi
+- Écran « tournez l'appareil » en portrait sur téléphone (le cadre de combat est un cadre paysage : en portrait il coupait les deux
+  combattants et la barre d'actions débordait) ; `color-scheme: dark` (contrôles natifs du panneau) ; libellés de chargement en français.
+- Publication : `tools/arena-page.mjs` (le service d'artefacts enveloppe le fichier dans son propre squelette : la page retire le sien,
+  `data-mode="hd2d"` posé par un premier script) ; artefact privé **https://claude.ai/artifact/3w7wmerkBRUFACTm2Y9xCh** (nouveau ; l'original
+  `Bhee6cMZ5mLKdVejE2rsim` reste la source archivée, non touché). Avertissement du service : le bouton « Download 3 key frames » du banc
+  d'appareil (lien de téléchargement) ne fait rien dans la visionneuse d'artefacts ; il marche en servant le fichier soi-même.
+
+### Journal
+- Passes gardées (H5 à A2) : 75 722 octets avant cette ligne, au-delà des ≈ 60 Ko ; aucun archivage possible selon le critère d'`AGENTS.md` :
+  la plus ancienne, H5, attend sa décision (production du héros). Si « branche fusionnée » suffit (question ouverte, « À reprendre » § 7),
+  H5 à W3 deviennent archivables d'un bloc.
+
+### Preuves
+- `tools/arena-check.mjs` sur la version finale : même empreinte de simulation, 33 rendus sans erreur, télégraphe 2,29:1 (2,63) ;
+  simulation, poses, visages et pipeline des sprites identiques à l'octet à l'archive ; typecheck, `npm test`, build, `art:validate`.
+- Captures : `screenshots/calibration/a1-arena/{calm,combo,window,panel}-before-after.png` (original / version finale).
+
+### Pensée
+- Un effet « local » sommé sur beaucoup de sources se mesure loin d'elles : une traîne en 1 / d², négligeable pour une lanterne, colore
+  tout le cadre pour quatorze. Avant de corriger une teinte, couper les effets un à un et mesurer.
+- Une critique d'art et un seuil de lisibilité peuvent se contredire (cramoisi contre 2:1) : la teinte se garde et la luminance se prend
+  ailleurs (ici, des chevrons ivoire plus épais).
+
 ## À reprendre (par priorité)
 
 > Élaguée le 18/10 (Passe M3) : seul le travail ouvert reste, regroupé par thème ; ce qui est fait vit dans sa passe. Les anciens repères
@@ -842,6 +910,12 @@ temps GPU sur la 780M (`tools/perf.mjs`, commandes dans la passe), le jugement d
 pluie qui tombe, éclairs), une éventuelle météo par défaut ou un cycle (décision de l'opérateur) ; non faits : son (le jeu n'en a pas), éclaboussures
 au sol, neige sur les personnages. Éclair dessiné dans le ciel : Passe W3.
 
+**6c. Arène (Passes A1 / A2)** — prototype de combat `arena/arena.html` (hors du jeu et de son build), passé dans la DA nocturne du district,
+publié en artefact privé (https://claude.ai/artifact/3w7wmerkBRUFACTm2Y9xCh). Restent : le jugement de l'opérateur en jeu et en mouvement sur
+sa machine (banc `?devtest=1` du prototype : temps GPU, cadence, contraste) ; décision de l'opérateur : porter l'arène dans le jeu (`src/`,
+Three.js récent, distribution cuite, rendu partagé avec le district) ou garder le prototype à part ; les modes PAINTED / FULL 3D restés de
+jour (Passe A2) ; écarts de la dernière critique (Passe A2).
+
 **7. Outillage, documentation, dette**
 - **Port 5173** partagé avec un autre projet local et `vite.config.ts` sans `strictPort` : les outils peuvent photographier la mauvaise
   appli. Servir les baselines sur `:518x --strictPort` ; décider avec l'opérateur s'il faut changer le défaut (outillage, pas runtime).
@@ -922,6 +996,8 @@ au sol, neige sur les personnages. Éclair dessiné dans le ciel : Passe W3.
   vérifiées contre la mesure ; une hypothèse plausible non décomposée a coûté un prototype inutile (Passes K2 / K3).
 - Un quad construit dans le shader (une traînée orientée par sa vitesse à l'écran) se dessine double face ; un « rien à l'écran » se vérifie
   d'abord au compteur d'appels de dessin, puis en agrandissant l'effet (Passe W1).
+- Un effet « local » sommé sur beaucoup de sources se mesure loin d'elles (une traîne en 1 / d² négligeable pour une lanterne colore tout le
+  cadre pour quatorze) ; une teinte se corrige après avoir coupé les effets un à un et mesuré (Passe A2).
 - Un effet qui écrit des uniformes partagés garde leurs valeurs d'avant et les rend : sa preuve est « activé puis retiré = 0 px » (Passe W2) ;
   tant qu'aucun paramètre ne le demande, il ne crée rien (un objet THREE tire `Math.random`).
 ### Preuves
@@ -952,6 +1028,9 @@ au sol, neige sur les personnages. Éclair dessiné dans le ciel : Passe W3.
 
 - Un serveur de mesure sert un instantané figé (copie hors dépôt), pas la copie de travail : on peut éditer pendant la série sans
   recharger les pages mesurées (Passes H6, K1).
+- Passer du jour à la nuit inverse les contrastes : un repère « plus sombre que le sol » doit devenir « plus clair » ; un seuil chiffré
+  (contraste du télégraphe) le voit, l'œil sur une capture non ; une critique d'art qui contredit le seuil garde sa teinte et prend la
+  luminance ailleurs (Passes A1 / A2).
 - Une propriété aléatoire se teste sur plusieurs tirages (dix éclairs, deux caps de caméra), un repli dans ses deux sens (±π) : un seul cas
   laisse passer une faute injectée (Passes Q2, W3).
 ### Personnages : art et critique

diff --git a/AGENTS.md b/AGENTS.md
@@ -141,7 +141,8 @@ recent passes, "À reprendre" and "Principes à garder"; older passes are archiv
 - Arena prototype (`arena/`, journal Passe A1; not part of the game or its build): `node tools/arena-shots.mjs <outDir> arena/arena.html
   "name|moment|js" ...` — captures of its scripted moments (`charging`, `window`, `combo`, ...); `node tools/arena-check.mjs <file.html> ...`
   — its combat simulation's state hash over a fixed input script, every moment in every mode without a page error, the telegraph's contrast
-  against the floor (>= 2:1); both serve the file locally (`ARENA_THREE=<three r128>` when cdnjs is unreachable)
+  against the floor (>= 2:1); both serve the file locally (`ARENA_THREE=<three r128>` when cdnjs is unreachable); `node tools/arena-page.mjs arena/arena.html <page.html>` — the page
+  to publish as an artifact (the service adds its own document skeleton; journal Passe A2)
 - Character Lab (dev only): `npm run dev`, then `/character-lab.html` (or `npm run art:lab`) — shows an exported PNG sheet through
   Three.js at 1x / 4x / runtime scale; `window.__lab.selfTest()` checks nearest filtering texel-for-texel. Not part of the game or its build.
 

diff --git a/arena/README.md b/arena/README.md
@@ -15,4 +15,7 @@ HUD allégé et signaux d'attaque discrets. Un seul fichier HTML, Three.js r128 
   panneau), `?devtest=1` (banc de mesure sur appareil réel). Touches : 1-6 attaques et techniques, A esquive, B garde (maintenir), R
   recommencer, Espace pause, H panneau, L atelier des sprites.
 - Captures : `node tools/arena-shots.mjs <dossier> arena/arena.html "nom|moment|js" ...` (moments scriptés du prototype : `charging`,
-  `window`, `combo`, ... ; voir l'en-tête de l'outil).
+  `window`, `combo`, ... ; voir l'en-tête de l'outil) ; contrôles : `node tools/arena-check.mjs arena/arena.html` (empreinte de la
+  simulation, chaque moment dans chaque mode sans erreur, contraste du télégraphe >= 2:1).
+- Version publiée (artefact privé de l'opérateur) : https://claude.ai/artifact/3w7wmerkBRUFACTm2Y9xCh ; la page se refait avec
+  `node tools/arena-page.mjs arena/arena.html <page.html>` (le service d'artefacts ajoute son propre squelette de document).
